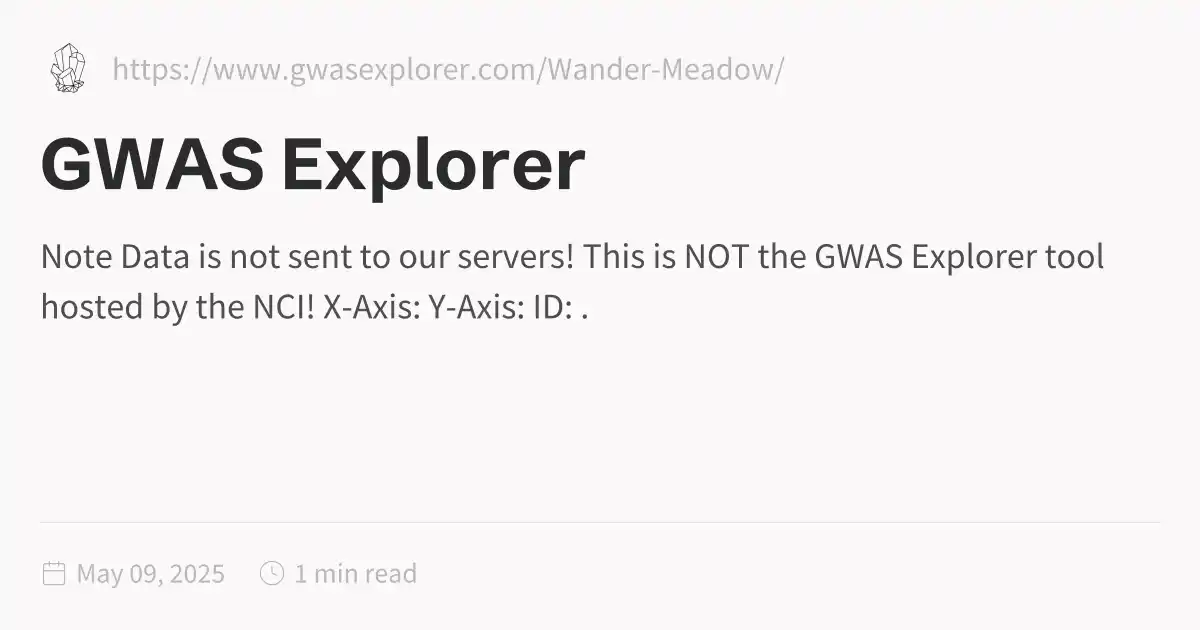
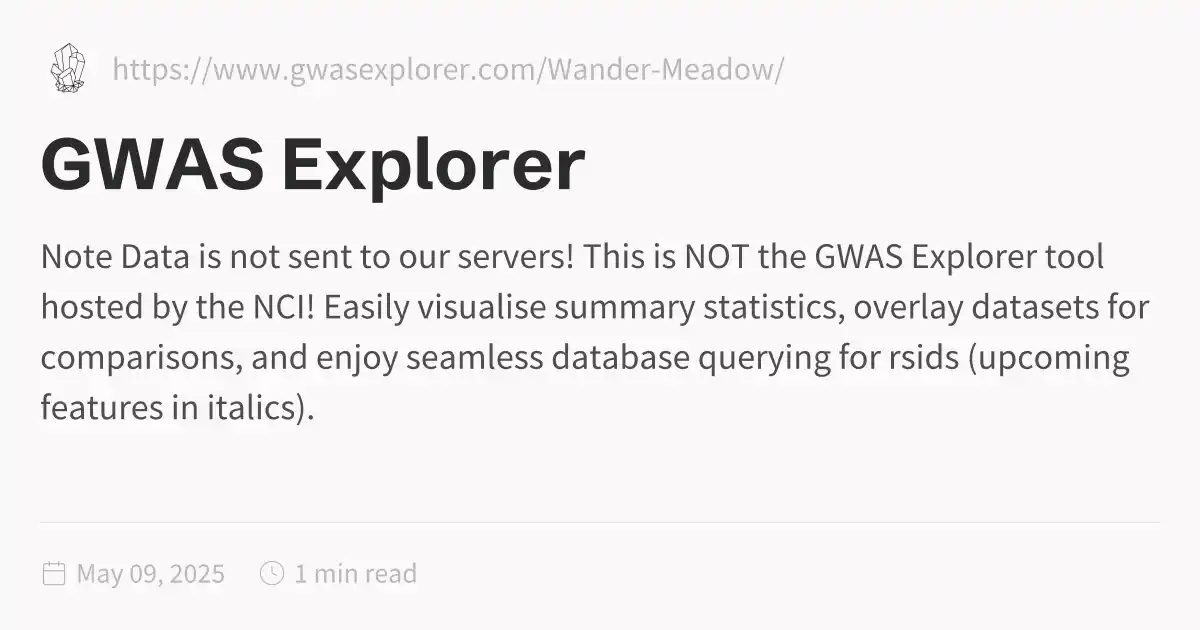
Update public folder - 2025-05-09\_2055

Changed region(s): [[0.0308, 0.5429, 0.9558, 0.6032], [0.2467, 0.4524, 0.9558, 0.5127], [0.0308, 0.6333, 0.2775, 0.6635]]

diff --git a/Projects/index.html b/Projects/index.html
@@ -116,6 +116,6 @@ pre:hover > .expand-button {
   padding: 0 12px;
   font-size: 14px;
 }
[2 lines of base64/hex data omitted]
 </script><script type="module">function f(i,e){if(!i)return;function r(o){o.target===this&&(o.preventDefault(),o.stopPropagation(),e())}function t(o){o.key.startsWith("Esc")&&(o.preventDefault(),e())}i?.addEventListener("click",r),window.addCleanup(()=>i?.removeEventListener("click",r)),document.addEventListener("keydown",t),window.addCleanup(()=>document.removeEventListener("keydown",t))}function y(i){for(;i.firstChild;)i.removeChild(i.firstChild)}var h=class{constructor(e,r){this.container=e;this.content=r;this.setupEventListeners(),this.setupNavigationControls(),this.resetTransform()}isDragging=!1;startPan={x:0,y:0};currentPan={x:0,y:0};scale=1;MIN_SCALE=.5;MAX_SCALE=3;cleanups=[];setupEventListeners(){let e=this.onMouseDown.bind(this),r=this.onMouseMove.bind(this),t=this.onMouseUp.bind(this),o=this.resetTransform.bind(this);this.container.addEventListener("mousedown",e),document.addEventListener("mousemove",r),document.addEventListener("mouseup",t),window.addEventListener("resize",o),this.cleanups.push(()=>this.container.removeEventListener("mousedown",e),()=>document.removeEventListener("mousemove",r),()=>document.removeEventListener("mouseup",t),()=>window.removeEventListener("resize",o))}cleanup(){for(let e of this.cleanups)e()}setupNavigationControls(){let e=document.createElement("div");e.className="mermaid-controls";let r=this.createButton("+",()=>this.zoom(.1)),t=this.createButton("-",()=>this.zoom(-.1)),o=this.createButton("Reset",()=>this.resetTransform());e.appendChild(t),e.appendChild(o),e.appendChild(r),this.container.appendChild(e)}createButton(e,r){let t=document.createElement("button");return t.textContent=e,t.className="mermaid-control-button",t.addEventListener("click",r),window.addCleanup(()=>t.removeEventListener("click",r)),t}onMouseDown(e){e.button===0&&(this.isDragging=!0,this.startPan={x:e.clientX-this.currentPan.x,y:e.clientY-this.currentPan.y},this.container.style.cursor="grabbing")}onMouseMove(e){this.isDragging&&(e.preventDefault(),this.currentPan={x:e.clientX-this.startPan.x,y:e.clientY-this.startPan.y},this.updateTransform())}onMouseUp(){this.isDragging=!1,this.container.style.cursor="grab"}zoom(e){let r=Math.min(Math.max(this.scale+e,this.MIN_SCALE),this.MAX_SCALE),t=this.content.getBoundingClientRect(),o=t.width/2,n=t.height/2,c=r-this.scale;this.currentPan.x-=o*c,this.currentPan.y-=n*c,this.scale=r,this.updateTransform()}updateTransform(){this.content.style.transform=`translate(${this.currentPan.x}px, ${this.currentPan.y}px) scale(${this.scale})`}resetTransform(){this.scale=1;let e=this.content.querySelector("svg");this.currentPan={x:e.getBoundingClientRect().width/2,y:e.getBoundingClientRect().height/2},this.updateTransform()}},C=["--secondary","--tertiary","--gray","--light","--lightgray","--highlight","--dark","--darkgray","--codeFont"],E;document.addEventListener("nav",async()=>{let e=document.querySelector(".center").querySelectorAll("code.mermaid");if(e.length===0)return;E||=await import("https://cdnjs.cloudflare.com/ajax/libs/mermaid/11.4.0/mermaid.esm.min.mjs");let r=E.default,t=new WeakMap;for(let n of e)t.set(n,n.innerText);async function o(){for(let s of e){s.removeAttribute("data-processed");let a=t.get(s);a&&(s.innerHTML=a)}let n=C.reduce((s,a)=>(s[a]=window.getComputedStyle(document.documentElement).getPropertyValue(a),s),{}),c=document.documentElement.getAttribute("saved-theme")==="dark";r.initialize({startOnLoad:!1,securityLevel:"loose",theme:c?"dark":"base",themeVariables:{fontFamily:n["--codeFont"],primaryColor:n["--light"],primaryTextColor:n["--darkgray"],primaryBorderColor:n["--tertiary"],lineColor:n["--darkgray"],secondaryColor:n["--secondary"],tertiaryColor:n["--tertiary"],clusterBkg:n["--light"],edgeLabelBackground:n["--highlight"]}}),await r.run({nodes:e})}await o(),document.addEventListener("themechange",o),window.addCleanup(()=>document.removeEventListener("themechange",o));for(let n=0;n<e.length;n++){let v=function(){let g=l.querySelector("#mermaid-space"),m=l.querySelector(".mermaid-content");if(!m)return;y(m);let w=c.querySelector("svg").cloneNode(!0);m.appendChild(w),l.classList.add("active"),g.style.cursor="grab",u=new h(g,m)},M=function(){l.classList.remove("active"),u?.cleanup(),u=null},c=e[n],s=c.parentElement,a=s.querySelector(".clipboard-button"),d=s.querySelector(".expand-button"),p=window.getComputedStyle(a),L=a.offsetWidth+parseFloat(p.marginLeft||"0")+parseFloat(p.marginRight||"0");d.style.right=`calc(${L}px + 0.3rem)`,s.prepend(d);let l=s.querySelector("#mermaid-container");if(!l)return;let u=null;d.addEventListener("click",v),f(l,M),window.addCleanup(()=>{u?.cleanup(),d.removeEventListener("click",v)})}});
 </script><script src="https://cdn.jsdelivr.net/npm/katex@0.16.11/dist/contrib/copy-tex.min.js" type="application/javascript"></script><script src="../postscript.js" type="module"></script></html>

diff --git a/Projects/GWAS-Explorer.html b/Projects/GWAS-Explorer.html
@@ -1,5 +1,5 @@
 <!DOCTYPE html>
-<html lang="en"><head><title>GWAS Explorer</title><meta charset="utf-8"/><link rel="preconnect" href="https://fonts.googleapis.com"/><link rel="preconnect" href="https://fonts.gstatic.com"/><link rel="stylesheet" href="https://fonts.googleapis.com/css2?family=Schibsted Grotesk:wght@400;700&amp;family=Source Sans Pro:ital,wght@0,400;0,600;1,400;1,600&amp;family=IBM Plex Mono:wght@400;600&amp;display=swap"/><link rel="preconnect" href="https://cdnjs.cloudflare.com" crossorigin="anonymous"/><meta name="viewport" content="width=device-width, initial-scale=1.0"/><meta name="og:site_name" content="Wander Meadow"/><meta property="og:title" content="GWAS Explorer"/><meta property="og:type" content="website"/><meta name="twitter:card" content="summary_large_image"/><meta name="twitter:title" content="GWAS Explorer"/><meta name="twitter:description" content="Note Data is not sent to our servers! This is NOT the GWAS Explorer tool hosted by the NCI! X-Axis: Y-Axis: ID: ."/><meta property="og:description" content="Note Data is not sent to our servers! This is NOT the GWAS Explorer tool hosted by the NCI! X-Axis: Y-Axis: ID: ."/><meta property="og:image:alt" content="Note Data is not sent to our servers! This is NOT the GWAS Explorer tool hosted by the NCI! X-Axis: Y-Axis: ID: ."/><meta property="twitter:domain" content="https://www.gwasexplorer.com/Wander-Meadow/"/><meta property="og:url" content="https://https//www.gwasexplorer.com/Wander-Meadow/Projects/GWAS-Explorer"/><meta property="twitter:url" content="https://https//www.gwasexplorer.com/Wander-Meadow/Projects/GWAS-Explorer"/><link rel="icon" href="../static/icon.png"/><meta name="description" content="Note Data is not sent to our servers! This is NOT the GWAS Explorer tool hosted by the NCI! X-Axis: Y-Axis: ID: ."/><meta name="generator" content="Quartz"/><link href="../index.css" rel="stylesheet" type="text/css" spa-preserve/><style>.expand-button {
+<html lang="en"><head><title>GWAS Explorer</title><meta charset="utf-8"/><link rel="preconnect" href="https://fonts.googleapis.com"/><link rel="preconnect" href="https://fonts.gstatic.com"/><link rel="stylesheet" href="https://fonts.googleapis.com/css2?family=Schibsted Grotesk:wght@400;700&amp;family=Source Sans Pro:ital,wght@0,400;0,600;1,400;1,600&amp;family=IBM Plex Mono:wght@400;600&amp;display=swap"/><link rel="preconnect" href="https://cdnjs.cloudflare.com" crossorigin="anonymous"/><meta name="viewport" content="width=device-width, initial-scale=1.0"/><meta name="og:site_name" content="Wander Meadow"/><meta property="og:title" content="GWAS Explorer"/><meta property="og:type" content="website"/><meta name="twitter:card" content="summary_large_image"/><meta name="twitter:title" content="GWAS Explorer"/><meta name="twitter:description" content="Note Data is not sent to our servers! This is NOT the GWAS Explorer tool hosted by the NCI! Easily visualise summary statistics, overlay datasets for comparisons, and enjoy seamless database querying for rsids (upcoming features in italics)."/><meta property="og:description" content="Note Data is not sent to our servers! This is NOT the GWAS Explorer tool hosted by the NCI! Easily visualise summary statistics, overlay datasets for comparisons, and enjoy seamless database querying for rsids (upcoming features in italics)."/><meta property="og:image:alt" content="Note Data is not sent to our servers! This is NOT the GWAS Explorer tool hosted by the NCI! Easily visualise summary statistics, overlay datasets for comparisons, and enjoy seamless database querying for rsids (upcoming features in italics)."/><meta property="twitter:domain" content="https://www.gwasexplorer.com/Wander-Meadow/"/><meta property="og:url" content="https://https//www.gwasexplorer.com/Wander-Meadow/Projects/GWAS-Explorer"/><meta property="twitter:url" content="https://https//www.gwasexplorer.com/Wander-Meadow/Projects/GWAS-Explorer"/><link rel="icon" href="../static/icon.png"/><meta name="description" content="Note Data is not sent to our servers! This is NOT the GWAS Explorer tool hosted by the NCI! Easily visualise summary statistics, overlay datasets for comparisons, and enjoy seamless database querying for rsids (upcoming features in italics)."/><meta name="generator" content="Quartz"/><link href="../index.css" rel="stylesheet" type="text/css" spa-preserve/><style>.expand-button {
   position: absolute;
   display: flex;
   float: right;
@@ -116,7 +116,7 @@ pre:hover > .expand-button {
   padding: 0 12px;
   font-size: 14px;
 }
[2 lines of base64/hex data omitted]
 <div class="callout-title">
                   <div class="callout-icon"></div>
                   <div class="callout-title-inner"><p>Note</p></div>
@@ -131,6 +131,7 @@ pre:hover > .expand-button {
 </div>
 </div>
 </blockquote>
+<p>Easily visualise summary statistics, <em>overlay datasets for comparisons, and enjoy seamless database querying for rsids (upcoming features in italics)</em>.</p>
 <div> 
     <input type="file" id="file-input"/><br/> 
     <label for="x-attr">X-Axis:</label>
